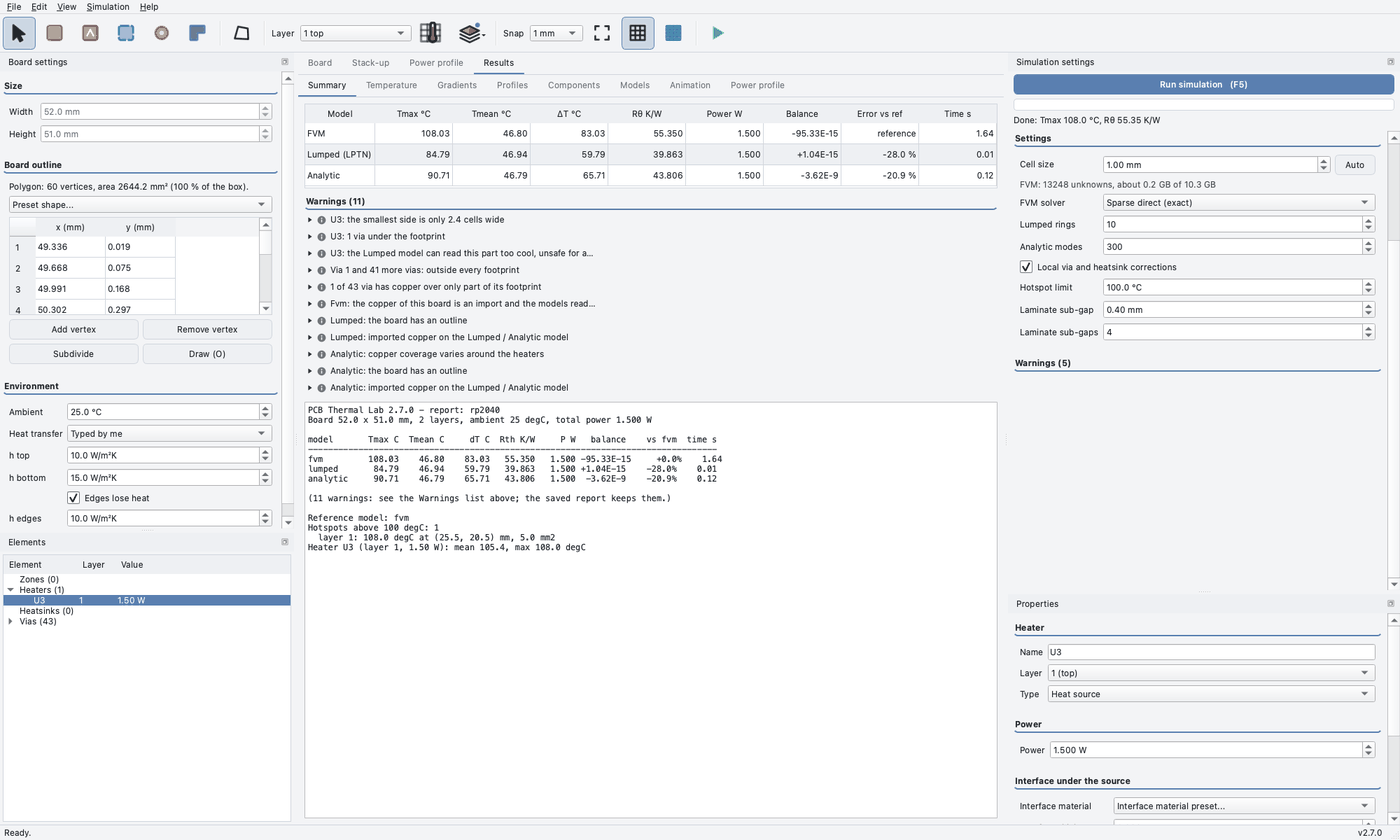
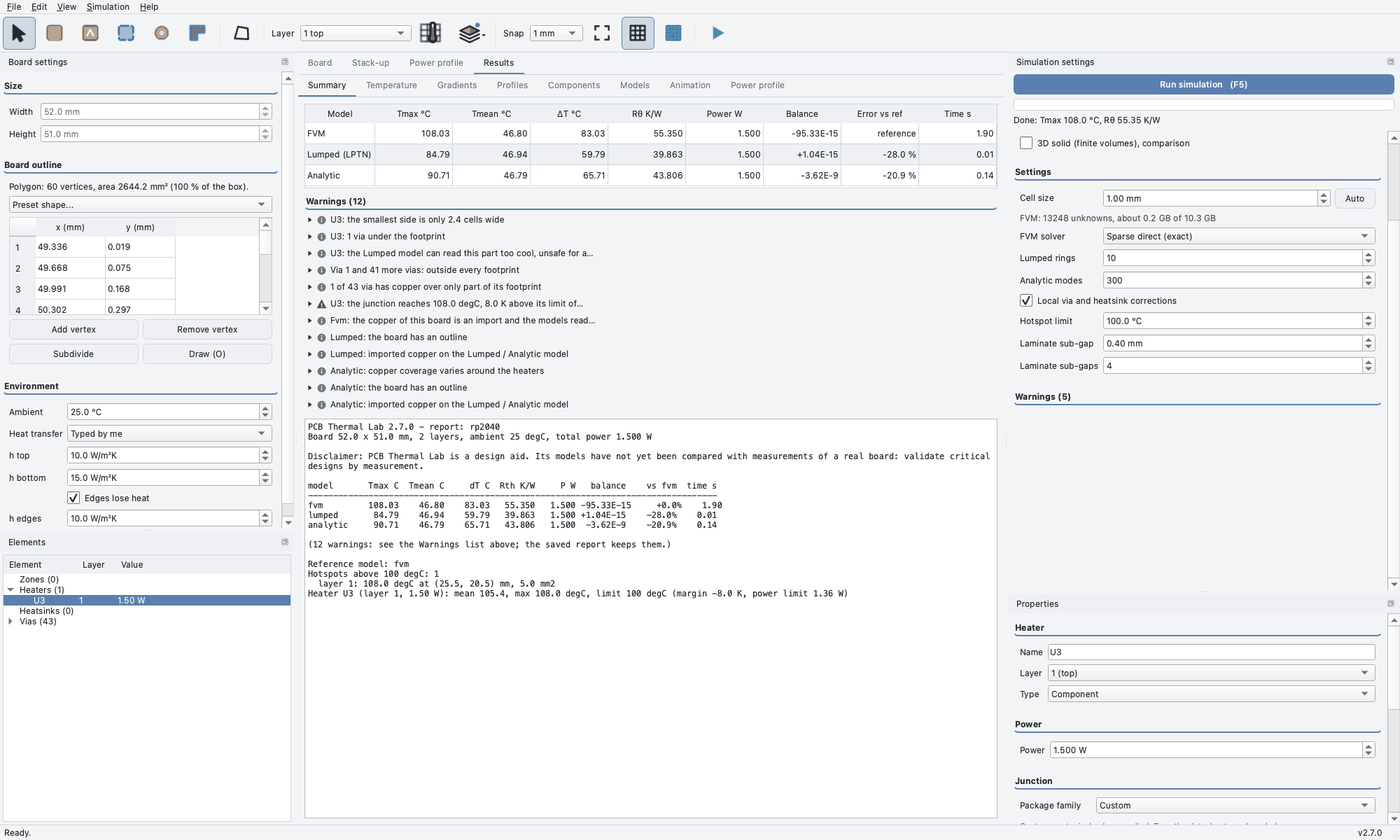
Place the warnings-picture source on the board and show a real alert
Claude-Session: https://claude.ai/code/session_01XgeLDd5tWg6CEJL9TQpCpU

Changed region(s): [[0.215, 0.3405, 0.7064, 0.7119], [0.7064, 0.1548, 0.9829, 0.4952], [0.7371, 0.9286, 0.8907, 0.9905]]

diff --git a/examples/make_screenshots.py b/examples/make_screenshots.py
@@ -285,8 +285,8 @@ def main_import(out_dir, board_dir):
         win.canvas.set_selection([("heater", 0)])
         win._on_canvas_selection([("heater", 0)])
         save(win, f"editor_imported{suffix}.png")
-        # Live warnings under Run: a second source that is half off the board, drawn on the top layer
-        win.doc.problem.add_heater(1, 0.5, rect=(46, 40, 58, 46), name="X1")
+        # Live warnings under Run: a second source fully on the board, over the copper pour left of the chip, close to the left side
+        win.doc.problem.add_heater(1, 0.5, rect=(7, 27, 13, 31), name="X1")
         win.doc.changed.emit()
         win.canvas.fit()
         t0 = time.time()
@@ -308,6 +308,8 @@ def main_import(out_dir, board_dir):
         save(win, f"editor_warnings{suffix}.png")
         # The run on the imported board: the summary with its notes, and the temperature map
         win.doc.problem.heaters = [h for h in win.doc.problem.heaters if h.name != "X1"]
+        # A junction limit of 100 degC on the chip: the run reads 108 degC, so the summary shows a genuine alert (a limit exceeded) beside the notes
+        win.doc.problem.heaters[0].tj_max = 100.0
         win.doc.changed.emit()
         win._on_done(simulate(win.doc.problem, SolverOptions(cell_mm=1.0)))
         win.results.tabs.setCurrentIndex(0)

diff --git a/CHANGELOG.md b/CHANGELOG.md
@@ -5,6 +5,10 @@ MAJOR for incompatible changes, MINOR for new features, PATCH for fixes. Release
 
 ## [Unreleased]
 
+### Docs
+
+- **The warnings picture no longer shows a part hanging off the board** (`docs/screenshots-warnings-placement`; pictures only): `examples/make_screenshots.py` places the second source X1 fully on the RP2040 board over copper, and the Results summary picture of the imported board gets a genuine alert (the chip's junction limit exceeded) instead; `editor_warnings.png` and `results_summary_imported.png` regenerated.
+
 ### Fixed
 
 - **The Results page no longer scrolls sideways in a narrow window, so the Profiles tab and its cut picture stay in view** (`fix/results-map-markers-and-cut-locator`; display only, no number moves): the Results tabs took the minimum width of their widest page (the Animation and Power profile controls, about 530 px), so at 900 x 700 with both docks open the Profiles tab scrolled sideways and its cut picture was out of view. Now only the page shown sets that width (the Animation and Power profile tabs still scroll to reach their controls), the Cut overlay box of the Profiles tab goes to a line of its own when the first line cannot hold it, and the cut picture is drawn again when the canvas crosses the width at which it moves between the inset over the curves and the strip above them. *(tests in `tests/test_map_markers_and_cut_locator.py`)*
